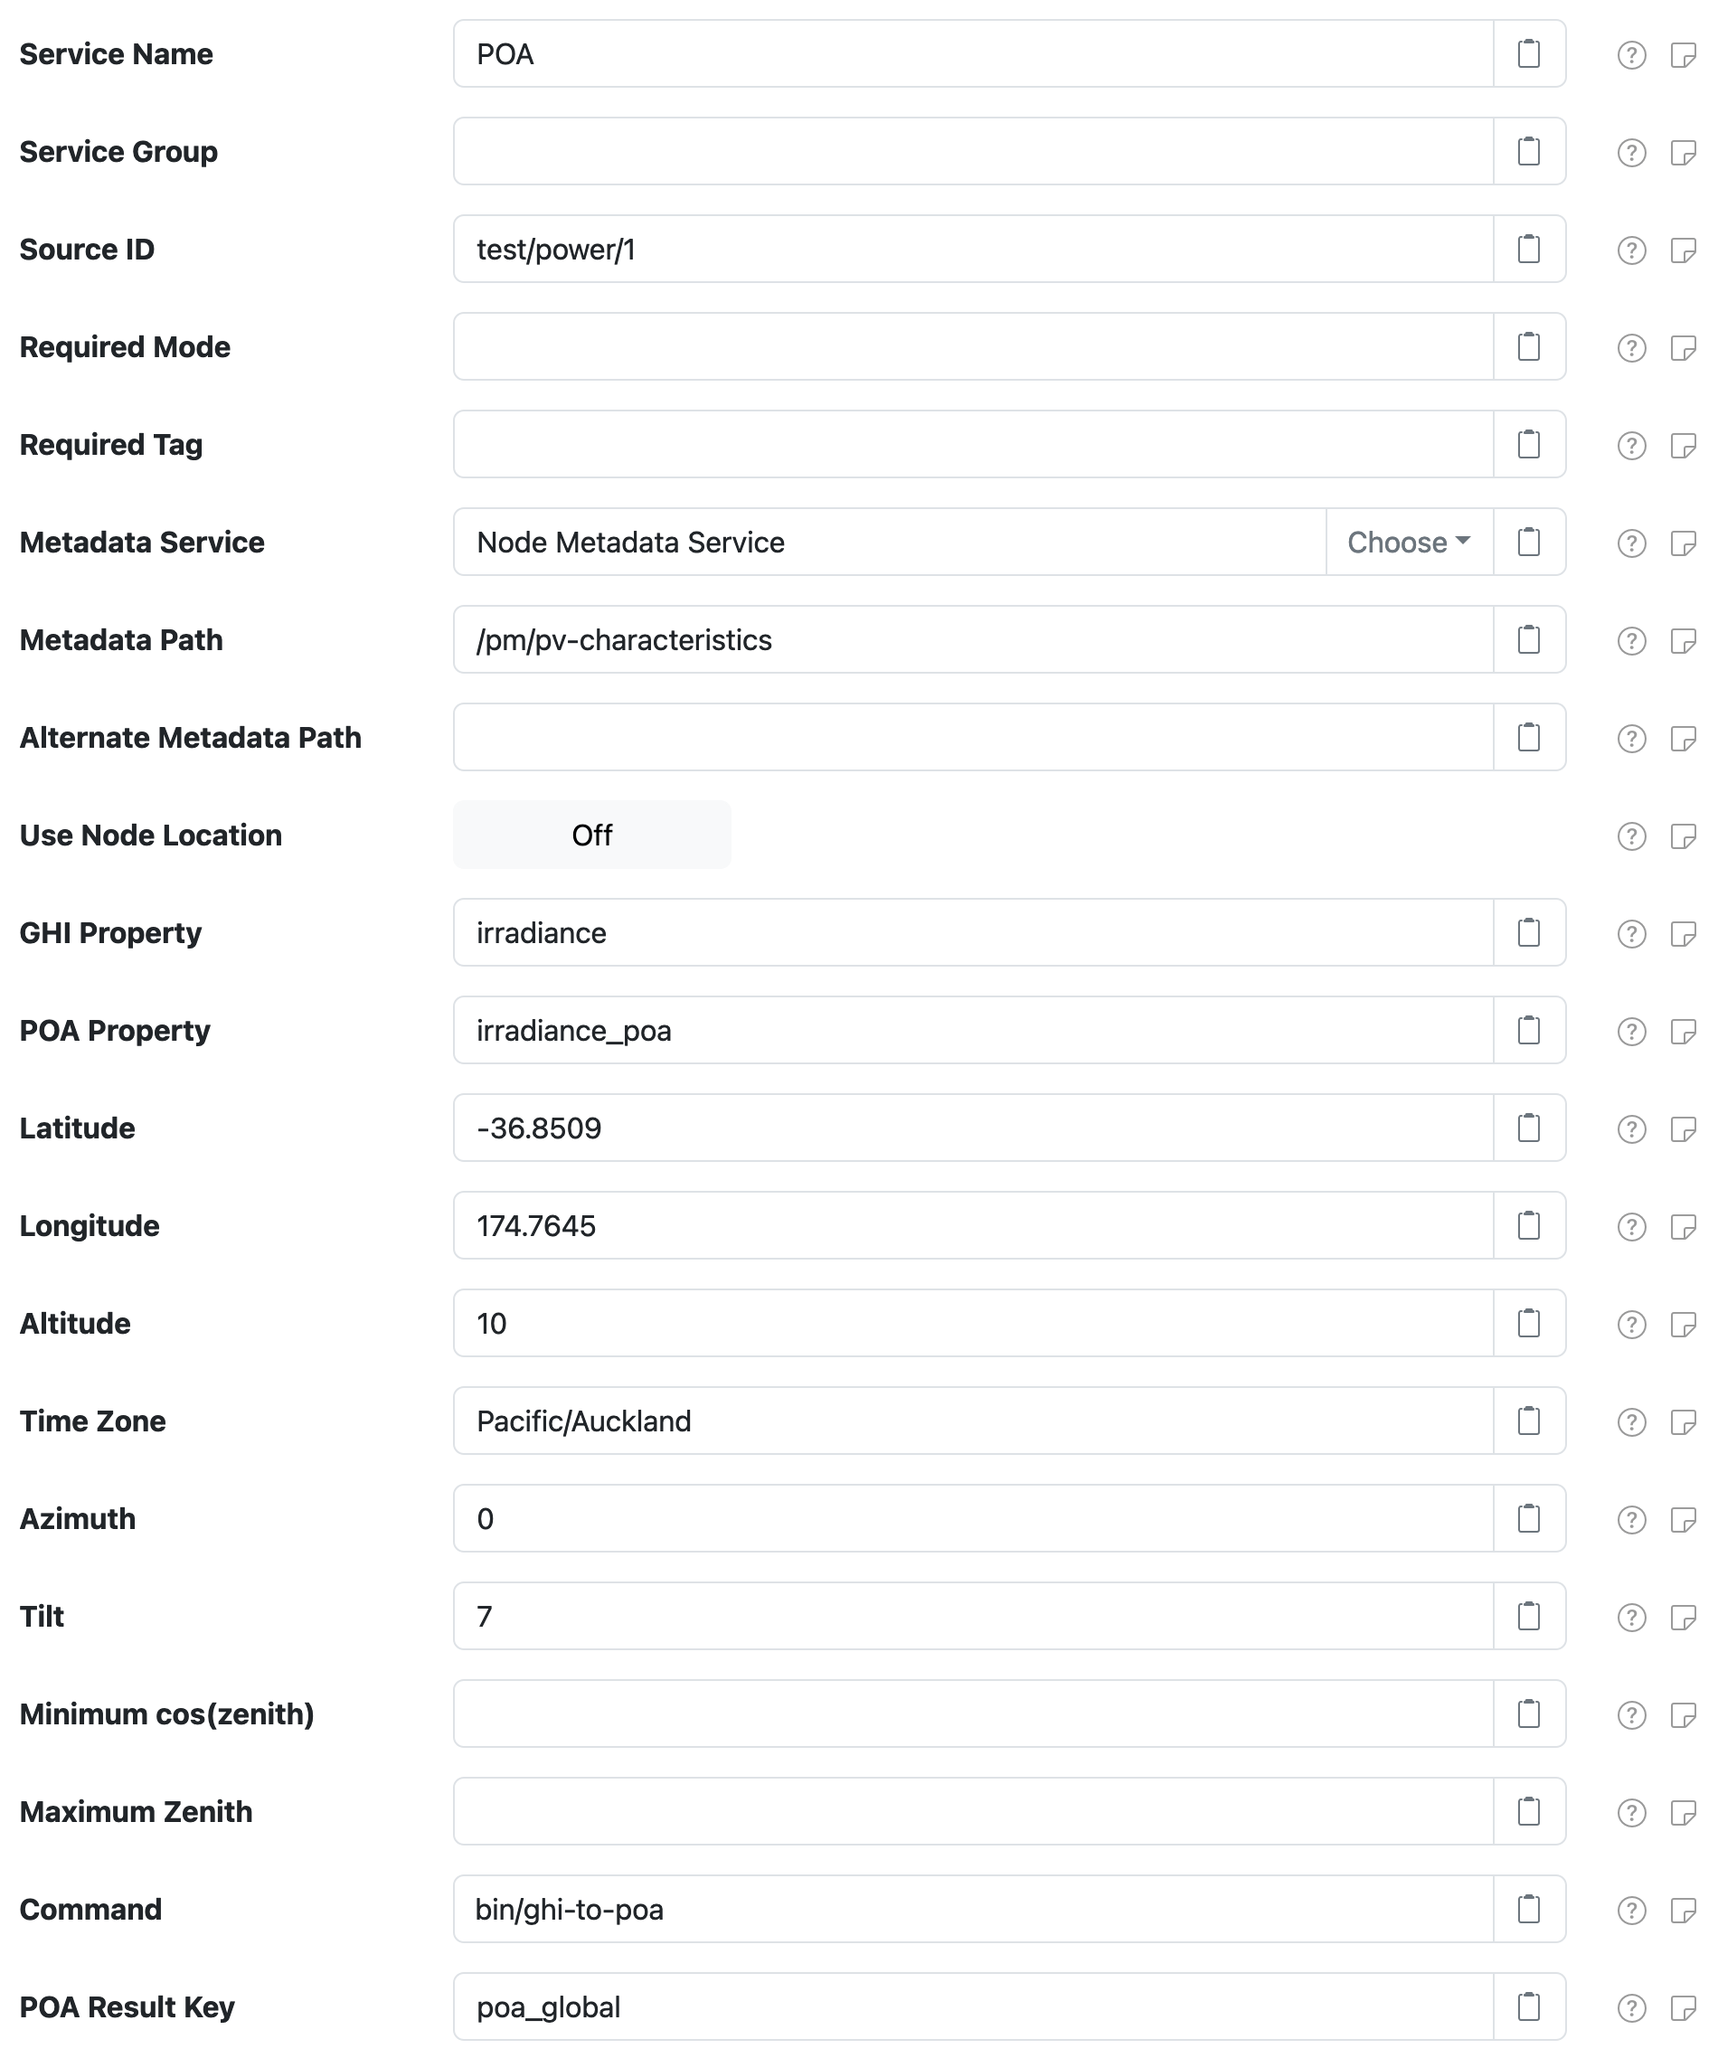
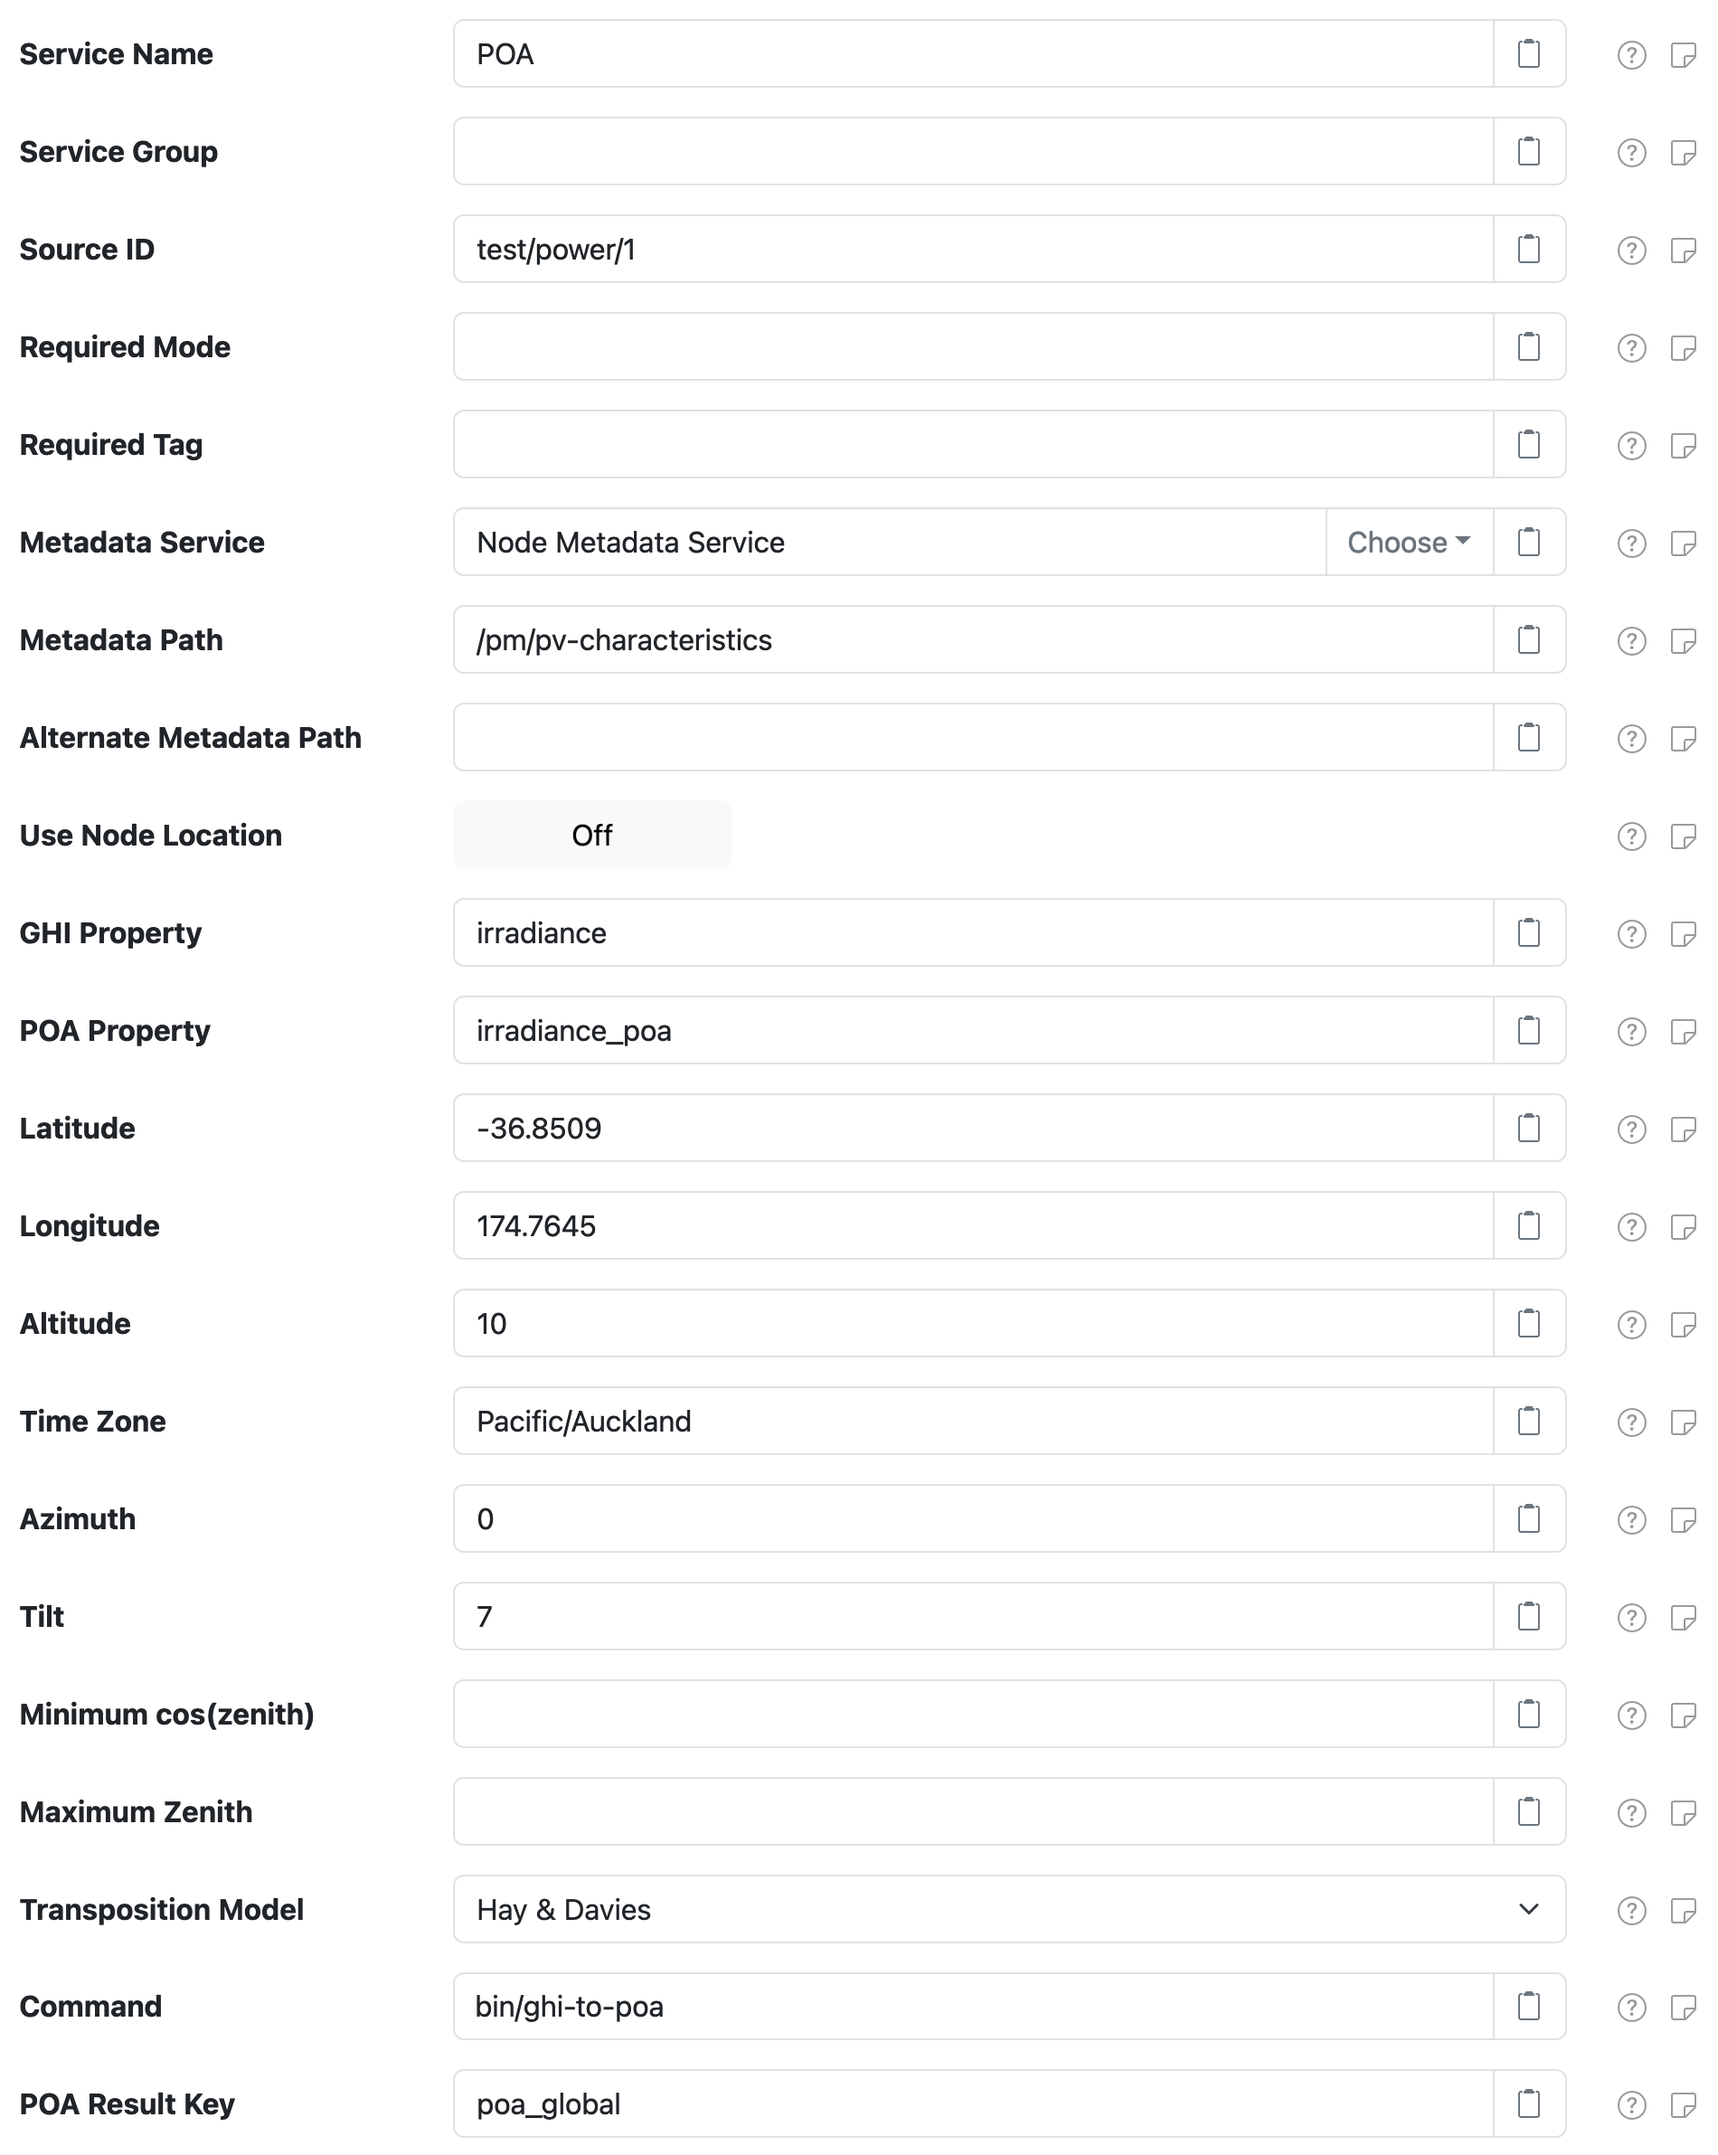
Add user-selectable transposition model setting.

diff --git a/net.solarnetwork.node.datum.filter.pvlib/src/net/solarnetwork/node/datum/pvlib/PvlibPoaDatumFilterService.java b/net.solarnetwork.node.datum.filter.pvlib/src/net/solarnetwork/node/datum/pvlib/PvlibPoaDatumFilterService.java
@@ -43,8 +43,10 @@ import java.util.Collection;
 import java.util.HashMap;
 import java.util.LinkedHashMap;
 import java.util.List;
+import java.util.Locale;
 import java.util.Map;
 import java.util.Map.Entry;
+import org.springframework.context.MessageSource;
 import com.fasterxml.jackson.core.JacksonException;
 import com.fasterxml.jackson.databind.ObjectMapper;
 import net.solarnetwork.domain.Location;
@@ -67,6 +69,7 @@ import net.solarnetwork.service.OptionalService.OptionalFilterableService;
 import net.solarnetwork.settings.SettingSpecifier;
 import net.solarnetwork.settings.SettingSpecifierProvider;
 import net.solarnetwork.settings.support.BasicGroupSettingSpecifier;
+import net.solarnetwork.settings.support.BasicMultiValueSettingSpecifier;
 import net.solarnetwork.settings.support.BasicTextFieldSettingSpecifier;
 import net.solarnetwork.settings.support.BasicToggleSettingSpecifier;
 import net.solarnetwork.settings.support.SettingUtils;
@@ -84,7 +87,7 @@ import net.solarnetwork.util.CollectionUtils;
  * </p>
  *
  * @author matt
- * @version 1.0
+ * @version 1.1
  */
 public class PvlibPoaDatumFilterService extends BaseDatumFilterSupport
 		implements DatumFilterService, SettingSpecifierProvider {
@@ -100,6 +103,13 @@ public class PvlibPoaDatumFilterService extends BaseDatumFilterSupport
 
 	/** The {@code poaResultKey} property default value. */
 	public static final String DEFAULT_POA_RESULT_KEY = "poa_global";
+
+	/**
+	 * The {@code transpositionModel} property default value.
+	 *
+	 * @since 1.1
+	 */
+	public static final TranspositionModel DEFAULT_TRANSPOSITION_MODEL = TranspositionModel.HayDavies;
 
 	private final OptionalService<DatumMetadataService> datumMetadataService;
 	private final OptionalFilterableService<MetadataService> characteristicsMetadataService;
@@ -119,6 +129,7 @@ public class PvlibPoaDatumFilterService extends BaseDatumFilterSupport
 	private BigDecimal tilt;
 	private BigDecimal minCosZenith;
 	private BigDecimal maxZenith;
+	private TranspositionModel transpositionModel = DEFAULT_TRANSPOSITION_MODEL;
 
 	private String command = DEFAULT_COMMAND;
 	private String poaResultKey = DEFAULT_POA_RESULT_KEY;
@@ -183,6 +194,9 @@ public class PvlibPoaDatumFilterService extends BaseDatumFilterSupport
 		}
 		if ( maxZenith != null ) {
 			cmdArguments.put(CommandOptions.MaxZenith.getOption(), maxZenith.toPlainString());
+		}
+		if ( transpositionModel != null ) {
+			cmdArguments.put(CommandOptions.TranspositionModel.getOption(), transpositionModel.getKey());
 		}
 
 		final String metaPath = nonEmptyString(metadataPath);
@@ -381,6 +395,19 @@ public class PvlibPoaDatumFilterService extends BaseDatumFilterSupport
 		results.add(new BasicTextFieldSettingSpecifier("tilt", null));
 		results.add(new BasicTextFieldSettingSpecifier("minCosZenith", null));
 		results.add(new BasicTextFieldSettingSpecifier("maxZenith", null));
+
+		final MessageSource messageSource = getMessageSource();
+
+		// drop-down menu for transpositionModelName
+		BasicMultiValueSettingSpecifier modelSpec = new BasicMultiValueSettingSpecifier(
+				"transpositionModelName", DEFAULT_TRANSPOSITION_MODEL.getKey());
+		Map<String, String> modelSpecTitles = new LinkedHashMap<>(2);
+		for ( TranspositionModel e : TranspositionModel.values() ) {
+			modelSpecTitles.put(e.getKey(), messageSource.getMessage("transpositionModel." + e.getKey(),
+					null, e.name(), Locale.getDefault()));
+		}
+		modelSpec.setValueTitles(modelSpecTitles);
+		results.add(modelSpec);
 
 		results.add(new BasicTextFieldSettingSpecifier("command", DEFAULT_COMMAND));
 		results.add(new BasicTextFieldSettingSpecifier("poaResultKey", DEFAULT_POA_RESULT_KEY));
@@ -794,6 +821,57 @@ public class PvlibPoaDatumFilterService extends BaseDatumFilterSupport
 	public void setExpressionConfigsCount(int count) {
 		this.expressionConfigs = ArrayUtils.arrayWithLength(this.expressionConfigs, count,
 				ExpressionConfig.class, null);
+	}
+
+	/**
+	 * Get the transposition model.
+	 *
+	 * @return the model, never {@literal null}
+	 * @since 1.1
+	 */
+	public final TranspositionModel getTranspositionModel() {
+		return transpositionModel;
+	}
+
+	/**
+	 * Set the transposition model.
+	 *
+	 * @param transpositionModel
+	 *        the model to set; if {@code null} then
+	 *        {@link #DEFAULT_TRANSPOSITION_MODEL} will be set
+	 * @since 1.1
+	 */
+	public final void setTranspositionModel(TranspositionModel transpositionModel) {
+		this.transpositionModel = (transpositionModel != null ? transpositionModel
+				: DEFAULT_TRANSPOSITION_MODEL);
+	}
+
+	/**
+	 * Get the transposition model as a key name.
+	 *
+	 * @return the model, never {@literal null}
+	 * @since 1.1
+	 */
+	public final String getTranspositionModelName() {
+		return getTranspositionModel().getKey();
+	}
+
+	/**
+	 * Set the transposition model as a key name.
+	 *
+	 * @param transpositionModel
+	 *        the model to set; if {@code null} then
+	 *        {@link #DEFAULT_TRANSPOSITION_MODEL} will be set
+	 * @since 1.1
+	 */
+	public final void setTranspositionModelName(String transpositionModel) {
+		TranspositionModel model = null;
+		try {
+			model = TranspositionModel.forKey(transpositionModel);
+		} catch ( IllegalArgumentException e ) {
+			// ignore, use default
+		}
+		setTranspositionModel(model);
 	}
 
 }

diff --git a/net.solarnetwork.node.datum.filter.pvlib/def/ghi-to-poa.py b/net.solarnetwork.node.datum.filter.pvlib/def/ghi-to-poa.py
@@ -18,7 +18,8 @@ def usage():
 -L --longitude       decimal longitude
 -m --min-cos-zenith  optional minimum cos(zenith) value when calculating global clearness index
 -M --max-zenith      optional maximum zenith value in DNI calculation
--t --array-tilt      solar array tilt angle from horizontal, in degrees 
+-t --array-tilt      solar array tilt angle from horizontal, in degrees
+-T --transpose       the transposition model to use, e.g. 'haydavies', 'perez-driesse'
 -u --array-azimuth   solar array angle clockwise from north
 -z --zone            time zone, like Pacific/Auckland
 """)
@@ -29,7 +30,8 @@ def ghi_get_irradiance(location: Location,
                        ghi: float,
                        date: str,
                        min_cos_zenith=None,
-                       max_zenith=None) -> dict:
+                       max_zenith=None,
+                       transposition_model='haydavies') -> dict:
     
     times = pd.DatetimeIndex(data = [date], tz = location.tz)
     
@@ -51,7 +53,7 @@ def ghi_get_irradiance(location: Location,
     dni_extra = irradiance.get_extra_radiation(times)
     
     poa = irradiance.get_total_irradiance(
-        model = "haydavies",
+        model = transposition_model,
         surface_tilt = array_tilt,
         surface_azimuth = array_azimuth,
         dni = erbs['dni'],
@@ -82,11 +84,12 @@ def ghi_get_irradiance(location: Location,
 try:
     opts, args = getopt.getopt(
         sys.argv[1:],
-        'a:d:i:l:L:m:M:t:u:z:',
+        'a:d:i:l:L:m:M:t:T:u:z:',
         ['altitude=', 'date=', 'irradiance=',
         'latitude=', 'longitude=', 
         'min-cos-zenith=', 'max-zenith=', 
-        'array-tilt=', 'array-azimuth=', 'zone='],
+        'array-tilt=', 'transpose=',
+        'array-azimuth=', 'zone='],
     )
 except getopt.GetoptError as e:
     print(e)
@@ -102,6 +105,7 @@ array_tilt = 0
 
 min_cos_zenith = None
 max_zenith = None
+model = 'haydavies'
 
 ghi = 0
 date = datetime.now(timezone.utc).strftime('%Y-%m-%dT%H:%M:%S')
@@ -123,6 +127,8 @@ for opt, arg in opts:
         max_zenith = float(arg)
     elif opt in ('-t', '--array-tilt'): # angle in degrees
         array_tilt = float(arg)
+    elif opt in ('-T', '--transpose'):
+        model = arg
     elif opt in ('-u', '--array-azimuth'): # angle in degrees
         array_azimuth = float(arg)
     elif opt in ('-z', '--zone'):
@@ -137,7 +143,8 @@ poa = ghi_get_irradiance(
     min_cos_zenith = min_cos_zenith,
     max_zenith = max_zenith,
     ghi = ghi,
-    date = date
+    date = date,
+    transposition_model = model
 )
 
 print(json.dumps(poa))

diff --git a/net.solarnetwork.node.datum.filter.pvlib/src/net/solarnetwork/node/datum/pvlib/TranspositionModel.java b/net.solarnetwork.node.datum.filter.pvlib/src/net/solarnetwork/node/datum/pvlib/TranspositionModel.java
@@ -1,0 +1,75 @@
+/* ==================================================================
+ * TranspositionModel.java - 28/11/2024 11:09:23 am
+ *
+ * Copyright 2024 SolarNetwork.net Dev Team
+ *
+ * This program is free software; you can redistribute it and/or
+ * modify it under the terms of the GNU General Public License as
+ * published by the Free Software Foundation; either version 2 of
+ * the License, or (at your option) any later version.
+ *
+ * This program is distributed in the hope that it will be useful,
+ * but WITHOUT ANY WARRANTY; without even the implied warranty of
+ * MERCHANTABILITY or FITNESS FOR A PARTICULAR PURPOSE. See the GNU
+ * General Public License for more details.
+ *
+ * You should have received a copy of the GNU General Public License
+ * along with this program; if not, write to the Free Software
+ * Foundation, Inc., 59 Temple Place, Suite 330, Boston, MA
+ * 02111-1307 USA
+ * ==================================================================
+ */
+
+package net.solarnetwork.node.datum.pvlib;
+
+/**
+ * Enumeration of supported transposition models to determine diffuse irradiance
+ * from the sky on a tilted surface.
+ *
+ * @author matt
+ * @version 1.0
+ */
+public enum TranspositionModel {
+
+	/** Hay &amp; Davies model. */
+	HayDavies("haydavies"),
+
+	/** Perez-Driesse model. */
+	PerezDriesse("perez-driesse"),
+
+	;
+
+	private final String key;
+
+	private TranspositionModel(String key) {
+		this.key = key;
+	}
+
+	/**
+	 * Get the key value.
+	 *
+	 * @return the key
+	 */
+	public final String getKey() {
+		return key;
+	}
+
+	/**
+	 * Get an enum instance for a key value.
+	 *
+	 * @param key
+	 *        the key
+	 * @return the enum
+	 * @throws IllegalArgumentException
+	 *         if {@code key} is not a valid value
+	 */
+	public static TranspositionModel forKey(String key) {
+		for ( TranspositionModel e : TranspositionModel.values() ) {
+			if ( e.name().equals(key) || e.key.equalsIgnoreCase(key) ) {
+				return e;
+			}
+		}
+		throw new IllegalArgumentException("Unknown TranspositionModel key [" + key + "]");
+	}
+
+}

diff --git a/net.solarnetwork.node.datum.filter.pvlib/src/net/solarnetwork/node/datum/pvlib/CommandOptions.java b/net.solarnetwork.node.datum.filter.pvlib/src/net/solarnetwork/node/datum/pvlib/CommandOptions.java
@@ -26,7 +26,7 @@ package net.solarnetwork.node.datum.pvlib;
  * Enumeration of command options with associated metadata keys.
  *
  * @author matt
- * @version 1.0
+ * @version 1.1
  */
 public enum CommandOptions {
 
@@ -62,6 +62,12 @@ public enum CommandOptions {
 
 	/** The GHI irradiance value. */
 	Ghi("--irradiance", null),
+
+	/**
+	 * The transposition model to use; see {@link TranspositionModel} for
+	 * supported values.
+	 */
+	TranspositionModel("--transpose", "transpositionModel"),
 
 	;
 

diff --git a/net.solarnetwork.node.datum.filter.pvlib/README.md b/net.solarnetwork.node.datum.filter.pvlib/README.md
@@ -99,6 +99,7 @@ The supported metadata parameters are:
 | `pvArrayAzimuth` | PV array angle value, in degrees clockwise from north |
 | `minCosZenith`   | Minimum value of `cos(zenith)` to allow when calculating global clearness index |
 | `maxZenith`      | Maximum zenith value to allow in DNI calculation |
+| `transpositionModel` | The transposition model name to use, one of `haydavies` or `perez-driesse`; defaults to `haydavies` |
 
 
 # Expressions
@@ -153,6 +154,7 @@ command must accept the options shown below, and is expected to output a JSON ob
 | `--max-zenith`     | Maximum zenith value to allow in DNI calculation |
 | `--date`           | Local timestamp, in `YYYY-MM-DDTHH:mm:ss` format |
 | `--irradiance`     | The GHI irradiance to calculate the POA irradiance value for |
+| `--transpose`      | The optional transposition model name to use, for example `haydavies` |
 
 
 # Developer Setup
